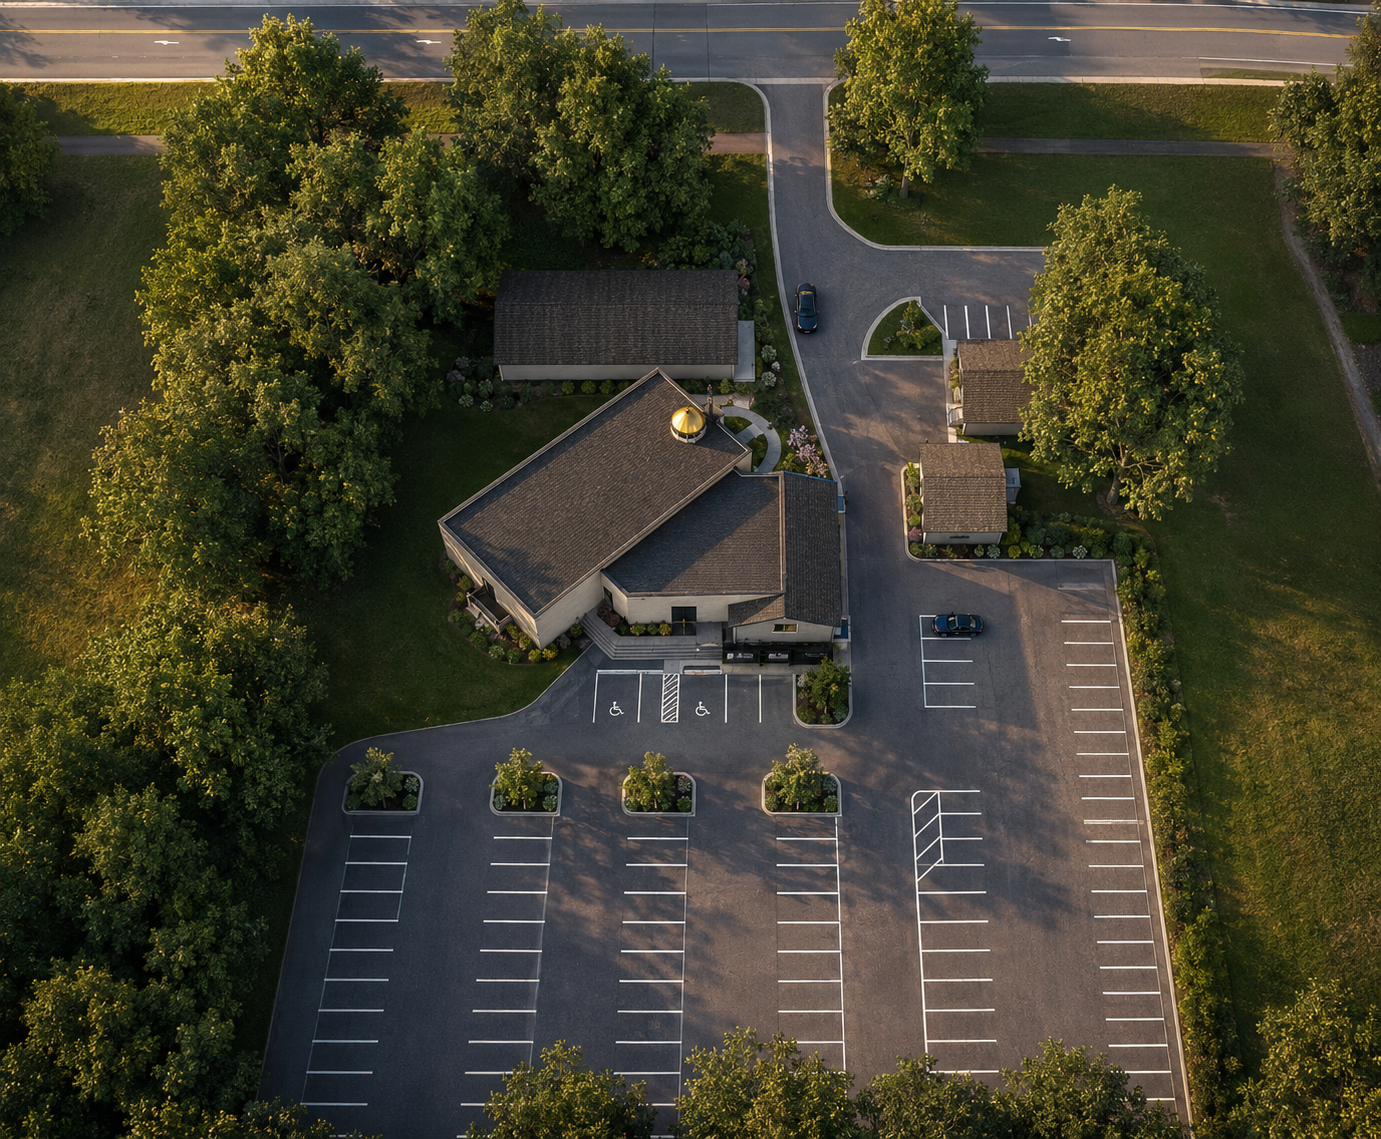
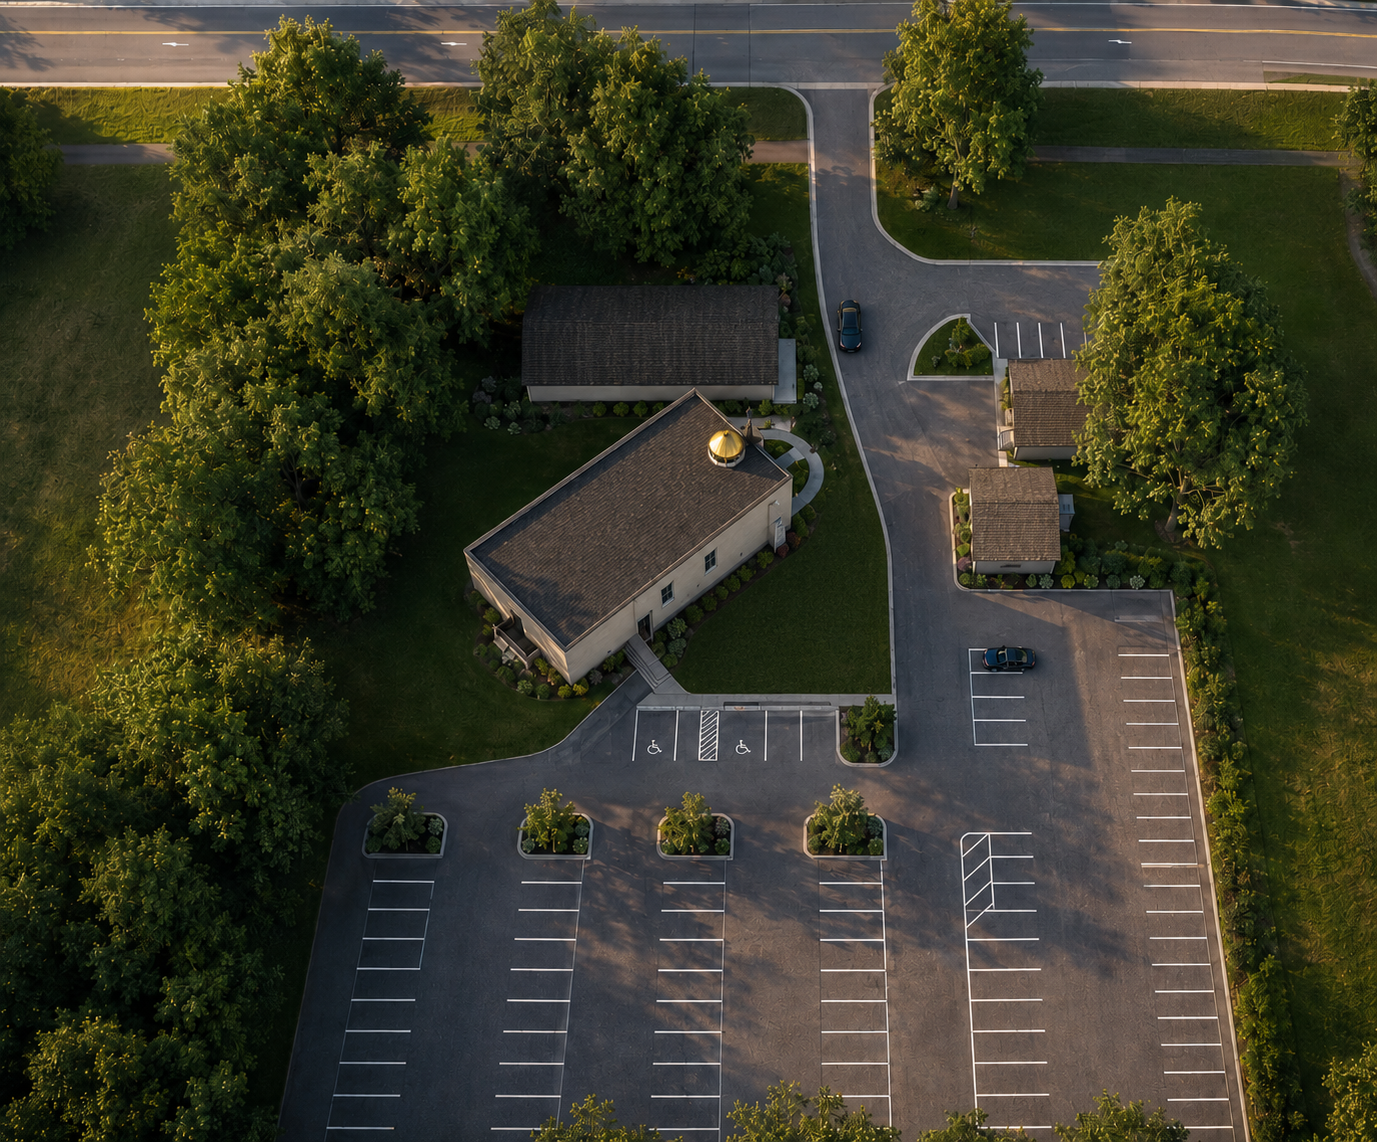
tv and prayer time updates

diff --git a/tv.html b/tv.html
@@ -345,14 +345,14 @@ body.cursor-hidden { cursor: none; }
   display: grid;
   grid-template-rows: 1fr auto;
   height: 100vh;
-  padding: clamp(20px, 4vh, 70px) clamp(24px, 3vw, 70px);
-  gap: clamp(10px, 1.5vh, 20px);
+  padding: 2.5vh 2.5vw;
+  gap: 1.2vh;
 }
 
 /* ── MAIN 2-PANEL ── */
 #slide-prayer .prayer-main {
   display: grid;
-  grid-template-columns: 1fr clamp(380px, 38vw, 720px);
+  grid-template-columns: 1fr 38vw;
   overflow: hidden;
   border-radius: 14px;
   border: 1px solid rgba(255,255,255,0.06);
@@ -369,18 +369,18 @@ body.cursor-hidden { cursor: none; }
 /* Table header */
 #slide-prayer .pt-header {
   display: grid;
-  grid-template-columns: clamp(80px, 10vw, 150px) clamp(180px, 18vw, 320px) 1fr 1fr;
+  grid-template-columns: 8vw 18vw 1fr 1fr;
   background: rgba(0,0,0,0.25);
   border-bottom: 1px solid var(--ln);
 }
 #slide-prayer .pt-header .pt-hcell {
-  padding: clamp(16px, 2.5vh, 24px) 44px;
+  padding: 2vh 2vw;
   font-family: 'Josefin Sans', sans-serif;
-  font-size: clamp(1.6rem, 2.8vh, 2.4rem);
+  font-size: 2.8vh;
   font-weight: 700;
   color: var(--gold);
   text-transform: uppercase;
-  letter-spacing: 8px;
+  letter-spacing: 0.4vw;
   text-align: center;
 }
 #slide-prayer .pt-header .pt-hcell:first-child {
@@ -403,7 +403,7 @@ body.cursor-hidden { cursor: none; }
 /* Prayer rows */
 #slide-prayer .pt-row {
   display: grid;
-  grid-template-columns: clamp(80px, 10vw, 150px) clamp(180px, 18vw, 320px) 1fr 1fr;
+  grid-template-columns: 8vw 18vw 1fr 1fr;
   border-bottom: 1px solid var(--ln);
   background: rgba(255,255,255,0.015);
   transition: all 0.4s ease;
@@ -426,7 +426,7 @@ body.cursor-hidden { cursor: none; }
 }
 
 #slide-prayer .pt-cell {
-  padding: 0 44px;
+  padding: 0 2vw;
   display: flex; align-items: center;
   height: 100%;
 }
@@ -446,7 +446,7 @@ body.cursor-hidden { cursor: none; }
   background: rgba(0,0,0,0.12);
 }
 #slide-prayer .pt-ic i {
-  font-size: clamp(2rem, 3.5vh, 3.2rem);
+  font-size: 3.5vh;
   color: var(--tm);
   opacity: 0.7;
 }
@@ -461,10 +461,10 @@ body.cursor-hidden { cursor: none; }
 /* Prayer name */
 #slide-prayer .pt-cell.pt-name {
   font-family: 'Josefin Sans', sans-serif;
-  font-size: clamp(1.8rem, 3.2vh, 2.8rem);
+  font-size: 3.2vh;
   font-weight: 600;
   text-transform: uppercase;
-  letter-spacing: clamp(4px, 0.6vh, 6px);
+  letter-spacing: 0.5vw;
   color: var(--tw);
   justify-content: center;
 }
@@ -476,7 +476,7 @@ body.cursor-hidden { cursor: none; }
 #slide-prayer .pt-cell.pt-time {
   justify-content: center;
   font-family: 'Quattrocento Sans', sans-serif;
-  font-size: clamp(3rem, 5.5vh, 4.8rem);
+  font-size: 5.5vh;
   font-weight: 700;
   color: var(--tw);
   line-height: 1;
@@ -485,9 +485,9 @@ body.cursor-hidden { cursor: none; }
   color: var(--gold);
 }
 #slide-prayer .pt-time .pt-ap {
-  font-size: clamp(1.1rem, 1.9vh, 1.7rem);
+  font-size: 1.9vh;
   font-weight: 700;
-  margin-left: 6px;
+  margin-left: 0.3vw;
   color: var(--td);
   vertical-align: super;
 }
@@ -1236,65 +1236,6 @@ body.cursor-hidden { cursor: none; }
   width: 28px; border-radius: 5px;
 }
 
-/* ═══ RESPONSIVE ═══ */
-@media (max-height: 900px) {
-  #slide-prayer .s-content { padding: 2.5vh 2.5vw; gap: 1.2vh; }
-  #slide-prayer .prayer-main { grid-template-columns: 1fr clamp(280px, 35vw, 560px); }
-  #slide-prayer .pt-header .pt-hcell { padding: 1.8vh 2vw; font-size: clamp(1rem, 2.2vh, 1.8rem); }
-  #slide-prayer .pt-cell { padding: 0 2vw; }
-  #slide-prayer .pt-cell.pt-time { font-size: clamp(1.8rem, 4.5vh, 3.6rem); }
-  #slide-prayer .pt-cell.pt-name { font-size: clamp(1.2rem, 2.8vh, 2.2rem); letter-spacing: 4px; }
-  #slide-prayer .pt-ic i { font-size: clamp(1.4rem, 3vh, 2.4rem); }
-  #slide-prayer .info-panel { padding: 2vh 2vw; gap: 0.4vh; }
-  #slide-prayer .info-clock { font-size: clamp(3rem, 8vh, 7rem); }
-  #slide-prayer .info-clock .info-ap { font-size: clamp(0.8rem, 2vh, 1.6rem); }
-  #slide-prayer .info-hijri { font-size: clamp(0.7rem, 1.4vh, 1.2rem); }
-  #slide-prayer .info-greg { font-size: clamp(0.6rem, 1.2vh, 1rem); margin-bottom: 1vh; }
-  #slide-prayer .info-niq { padding: 1.5vh 0; margin-top: 0.8vh; }
-  #slide-prayer .info-niq-label { font-size: clamp(0.55rem, 1.1vh, 0.9rem); }
-  #slide-prayer .info-niq-time { font-size: clamp(1.6rem, 4vh, 3.2rem); }
-  #slide-prayer .info-niq-time small { font-size: clamp(0.7rem, 1.5vh, 1.2rem); }
-  #slide-prayer .info-jumuah { padding: 1.2vh 0; }
-  #slide-prayer .info-jumuah-title { font-size: clamp(0.65rem, 1.3vh, 1.1rem); margin-bottom: 1vh; }
-  #slide-prayer .info-jumuah-col .jtime { font-size: clamp(1.4rem, 3.5vh, 2.8rem); }
-  #slide-prayer .info-jumuah-col .jtime .jap { font-size: clamp(0.5rem, 1vh, 0.8rem); }
-  #slide-prayer .info-jumuah-col .jlabel { font-size: clamp(0.45rem, 0.9vh, 0.75rem); }
-  #slide-prayer .info-sun { padding-top: 1.2vh; gap: 0.5vh; }
-  #slide-prayer .info-sun-row { padding: 1vh 1.2vw; gap: 0.8vw; }
-  #slide-prayer .info-sun-row .sun-label { font-size: clamp(0.55rem, 1.1vh, 0.9rem); }
-  #slide-prayer .info-sun-row .sun-time { font-size: clamp(0.9rem, 2vh, 1.6rem); }
-  #slide-prayer .info-sun-row i { font-size: clamp(0.65rem, 1.3vh, 1.1rem); }
-}
-@media (max-height: 750px) {
-  #slide-prayer .s-content { padding: 1.5vh 1.5vw; gap: 0.8vh; }
-  #slide-prayer .prayer-main { grid-template-columns: 1fr clamp(220px, 30vw, 440px); }
-  #slide-prayer .pt-header,
-  #slide-prayer .pt-row { grid-template-columns: clamp(50px, 5vw, 80px) clamp(120px, 12vw, 180px) 1fr 1fr; }
-  #slide-prayer .pt-header .pt-hcell { padding: 1.2vh 1.5vw; font-size: clamp(0.8rem, 1.8vh, 1.4rem); }
-  #slide-prayer .pt-cell { padding: 0 1.5vw; }
-  #slide-prayer .pt-cell.pt-time { font-size: clamp(1.4rem, 3.5vh, 2.6rem); }
-  #slide-prayer .pt-time .pt-ap { font-size: clamp(0.6rem, 1.3vh, 1rem); }
-  #slide-prayer .pt-cell.pt-name { font-size: clamp(0.9rem, 2.2vh, 1.6rem); letter-spacing: 3px; }
-  #slide-prayer .pt-ic i { font-size: clamp(1rem, 2.4vh, 1.8rem); }
-  #slide-prayer .info-panel { padding: 1.5vh 1.5vw; gap: 0.2vh; }
-  #slide-prayer .info-clock { font-size: clamp(2.2rem, 6.5vh, 5rem); }
-  #slide-prayer .info-clock .info-ap { font-size: clamp(0.6rem, 1.6vh, 1.2rem); }
-  #slide-prayer .info-hijri { font-size: clamp(0.55rem, 1.2vh, 0.95rem); }
-  #slide-prayer .info-greg { font-size: clamp(0.5rem, 1vh, 0.8rem); margin-bottom: 0.6vh; }
-  #slide-prayer .info-niq { padding: 1vh 0; margin-top: 0.6vh; }
-  #slide-prayer .info-niq-label { font-size: clamp(0.45rem, 0.9vh, 0.75rem); }
-  #slide-prayer .info-niq-time { font-size: clamp(1.2rem, 3vh, 2.2rem); }
-  #slide-prayer .info-niq-time small { font-size: clamp(0.5rem, 1.1vh, 0.9rem); }
-  #slide-prayer .info-jumuah { padding: 0.8vh 0; }
-  #slide-prayer .info-jumuah-title { font-size: clamp(0.5rem, 1.1vh, 0.85rem); margin-bottom: 0.8vh; }
-  #slide-prayer .info-jumuah-col .jtime { font-size: clamp(1.1rem, 2.7vh, 2rem); }
-  #slide-prayer .info-jumuah-col .jlabel { font-size: clamp(0.4rem, 0.8vh, 0.65rem); }
-  #slide-prayer .info-sun { padding-top: 0.8vh; gap: 0.4vh; }
-  #slide-prayer .info-sun-row { padding: 0.8vh 1vw; }
-  #slide-prayer .info-sun-row .sun-label { font-size: clamp(0.45rem, 0.9vh, 0.75rem); }
-  #slide-prayer .info-sun-row .sun-time { font-size: clamp(0.7rem, 1.7vh, 1.3rem); }
-}
-
 /* ── Iqamah countdown bar on non-prayer slides ── */
 .iq-bar{
   position:fixed;top:0;left:0;right:0;z-index:20;
@@ -2016,8 +1957,8 @@ function updateIqBar(){
         const isNext = nextP && p.k === nextP.k;
         h += '<div class="iq-bar-pt'+(isNext?' active':'')+'">';
         h += '<span class="iq-bar-pt-name">'+p.n+'</span>';
-        h += '<span class="iq-bar-pt-adhan">'+adhan+'</span>';
-        h += '<span class="iq-bar-pt-iq">Iqamah '+iq+'</span>';
+        h += '<span class="iq-bar-pt-adhan">'+iq+'</span>';
+        h += '<span class="iq-bar-pt-iq">Adhan '+adhan+'</span>';
         h += '</div>';
       });
       barTimes.innerHTML = h;